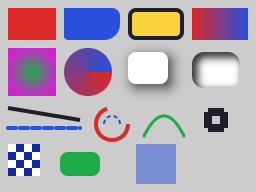
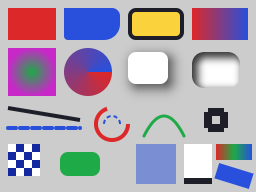
pxui_render: extend the golden scene with per-side border, ramp gradient and rotated view (golden scene_2x.png refreshed); docs for retained/blur/left-out
Golden refreshed on purpose: scene gained three instances, the colour atlas is 256 wide (image uv rescaled).

Changed region(s): [[0.7188, 0.75, 1.0, 1.0]]

diff --git a/crates/pxui_render/tests/gpu_pxui_render.rs b/crates/pxui_render/tests/gpu_pxui_render.rs
@@ -63,7 +63,7 @@ fn pass(queue: &Queue, target: &Texture, body: &mut dyn FnMut(&RenderEncoder)) {
 }
 
 fn painter(device: &Device) -> Painter {
-    ok(Painter::new(device, ColorFormat::Rgba8Unorm, DepthFormat::NoDepth, 1, (64, 64), (32, 32)))
+    ok(Painter::new(device, ColorFormat::Rgba8Unorm, DepthFormat::NoDepth, 1, (64, 64), (256, 32)))
 }
 
 /// Synthetic atlas content: an 8x8 ring glyph in the mask atlas at (16, 16), a 4x4 checker at (0, 0)
@@ -71,6 +71,16 @@ fn painter(device: &Device) -> Painter {
 fn upload_atlases(painter: &mut Painter, glyph: &[u8], checker: &[u8]) {
     ok(painter.upload(AtlasKind::Mask, 16, 16, 8, 8, glyph, 8));
     ok(painter.upload(AtlasKind::Color, 0, 0, 4, 4, checker, 16));
+    let mut row = [0u8; 1024];
+    ramp(&[(0.0, RED), (0.5, GREEN), (1.0, BLUE)], &mut row);
+    ok(painter.upload(AtlasKind::Color, 0, 8, 256, 1, &row, 1024));
+}
+
+/// Views the scene names: 1 fades and shifts, 2 turns a little about its rect's centre.
+fn set_scene_views(painter: &mut Painter) {
+    let faded = View { offset: [8.0, 0.0], opacity: 0.5, ..View::IDENTITY };
+    ok(painter.set_view(1, faded));
+    ok(painter.set_view(2, View::rotation(0.3, [117.0, 88.0])));
 }
 
 fn atlas_bytes() -> (Vec<u8>, Vec<u8>) {
@@ -108,9 +118,12 @@ fn scene() -> Vec<Instance> {
         Instance::arc([56.0, 62.0], 4.0, 0.0, -0.5 * tau, 1.0, BLUE).dash(2.0, 1.5, 0.0),
         Instance::curve([72.0, 68.0], [82.0, 48.0], [92.0, 68.0], 1.5, GREEN),
         Instance::mask([100.0, 52.0, 116.0, 68.0], [16.0 / 64.0, 16.0 / 64.0, 24.0 / 64.0, 24.0 / 64.0], INK),
-        Instance::image([4.0, 72.0, 20.0, 88.0], [0.0, 0.0, 4.0 / 32.0, 4.0 / 32.0], [255, 255, 255, 255]),
+        Instance::image([4.0, 72.0, 20.0, 88.0], [0.0, 0.0, 4.0 / 256.0, 4.0 / 32.0], [255, 255, 255, 255]),
         Instance::rect([24.0, 72.0, 56.0, 92.0], GREEN).clip([30, 76, 50, 88], 4.0),
         Instance::rect([60.0, 72.0, 80.0, 92.0], BLUE).view(1),
+        Instance::rect([92.0, 72.0, 106.0, 92.0], [255, 255, 255, 255]).border(3.0, INK).sides(flags::BOTTOM),
+        Instance::rect([108.0, 72.0, 126.0, 80.0], [0; 4]).linear([0.0, 0.5], [1.0, 0.5], [0; 4]).ramp(8),
+        Instance::rect([108.0, 84.0, 126.0, 92.0], BLUE).view(2),
     ]
 }
 
@@ -118,7 +131,7 @@ fn render_scene(device: &Device, queue: &Queue) -> Vec<u8> {
     let mut painter = painter(device);
     let (glyph, checker) = atlas_bytes();
     upload_atlases(&mut painter, &glyph, &checker);
-    ok(painter.set_view(1, View { offset: [8.0, 0.0], opacity: 0.5, ..View::IDENTITY }));
+    set_scene_views(&mut painter);
     let target = target(device);
     let instances = scene();
     painter.begin_frame();
@@ -191,6 +204,10 @@ fn gpu_scene_golden_and_spot_checks() {
     assert!(near(at(&pixels, 86.0, 82.0), [122, 142, 212, 255], 2), "view opacity halves the rect: {:?}", at(&pixels, 86.0, 82.0));
     assert!(near(at(&pixels, 108.0, 60.0), BG, 0) && near(at(&pixels, 101.0, 60.0), BG, 0), "glyph hole and margin are background");
     assert_eq!(at(&pixels, 104.6, 60.0), INK, "glyph ring is ink");
+    assert_eq!(at(&pixels, 99.0, 90.0), INK, "bottom-only border band");
+    assert_eq!(at(&pixels, 99.0, 80.0), [255, 255, 255, 255], "no border above the band");
+    assert!(near(at(&pixels, 117.0, 76.0), GREEN, 6), "3-stop ramp middle is the middle stop: {:?}", at(&pixels, 117.0, 76.0));
+    assert_eq!(at(&pixels, 117.0, 88.0), BLUE, "rotated view keeps its centre");
     assert_eq!(at(&pixels, 5.0, 73.0), [255, 255, 255, 255], "checker texel 0");
     assert_eq!(at(&pixels, 9.0, 73.0), [20, 40, 160, 255], "checker texel 1");
 
@@ -250,7 +267,7 @@ fn gpu_warm_frame_allocates_nothing() {
     let Some(device) = open() else { return };
     let queue = ok(be::create_queue(&device));
     let mut painter = painter(&device);
-    ok(painter.set_view(1, View { offset: [8.0, 0.0], opacity: 0.5, ..View::IDENTITY }));
+    set_scene_views(&mut painter);
     let (glyph, checker) = atlas_bytes();
     let target = target(&device);
     let instances = scene();
@@ -366,7 +383,7 @@ fn gpu_retained_layer_writes_only_dirty_ranges() {
     let Some(device) = open() else { return };
     let queue = ok(be::create_queue(&device));
     let mut painter = painter(&device);
-    ok(painter.set_view(1, View { offset: [8.0, 0.0], opacity: 0.5, ..View::IDENTITY }));
+    set_scene_views(&mut painter);
     let (glyph, checker) = atlas_bytes();
     upload_atlases(&mut painter, &glyph, &checker);
     let target = target(&device);

diff --git a/crates/pxui_render/src/lib.rs b/crates/pxui_render/src/lib.rs
@@ -9,6 +9,11 @@
 //! painter.set_view(1, View { offset: [0.0, -scroll], ..View::IDENTITY })?;
 //! /* open the pass (or reuse the scene pass) */
 //! painter.draw(&encoder, [w_px, h_px], scale, &instances, &[])?;   // one draw call when no breaks
+//! // a cached layer: only the instances that changed since its last frame are written
+//! painter.draw_retained(&encoder, [w_px, h_px], scale, layer, &instances, &dirty_ranges, &[])?;
+//! // backdrop blur: end the pass that drew the backdrop, blur, then draw the result as an image
+//! let blurred = painter.blur(&queue, &backdrop, [x0, y0, x1, y1], sigma_px)?.clone();
+//! painter.draw(&encoder, .., &[Instance::image(rect, [0.0, 0.0, 1.0, 1.0], tint)], &[Break { at_instance: 0, texture: Some(&blurred) }])?;
 //! ```
 //!
 //! # Conventions (same as the Lisp `ui` shader this replaces)
@@ -58,7 +63,15 @@
 //!
 //! # Batching
 //! A layer is one draw call. [`Break`]s are the only splits: from `at_instance` on, image instances
-//! sample the given external texture instead of the colour atlas.
+//! sample the given external texture instead of the colour atlas. Gradient ramps always read the atlas.
+//!
+//! # Retained layers, blur, and what is left out
+//! [`Painter::draw_retained`] keeps a layer's instances in persistent GPU storage and writes only the
+//! dirty ranges (its doc states the frames-in-flight rule). [`Painter::blur`] is the only extra pass: a
+//! second small pipeline (`blur.*` shaders) runs a downsampling separable gaussian into scratch targets.
+//! Pure helpers in `pxui::draw` place images (`fit`, `nine_slice`) and emit per-side borders.
+//! Not built, opt-in later and only if measured: group opacity (render a view to a texture and composite
+//! it once), texture-cached views and content filters on them, dashed curves.
 
 use ogpu_core::backend::{self, Buffer, ColorAttachment, Device, Pipeline, Queue, RenderEncoder, RenderTarget, Sampler, ShaderStage, Texture};
 use ogpu_core::binding::{self, Kind as LayoutKind, LayoutEntry, Stage as LayoutStage};
